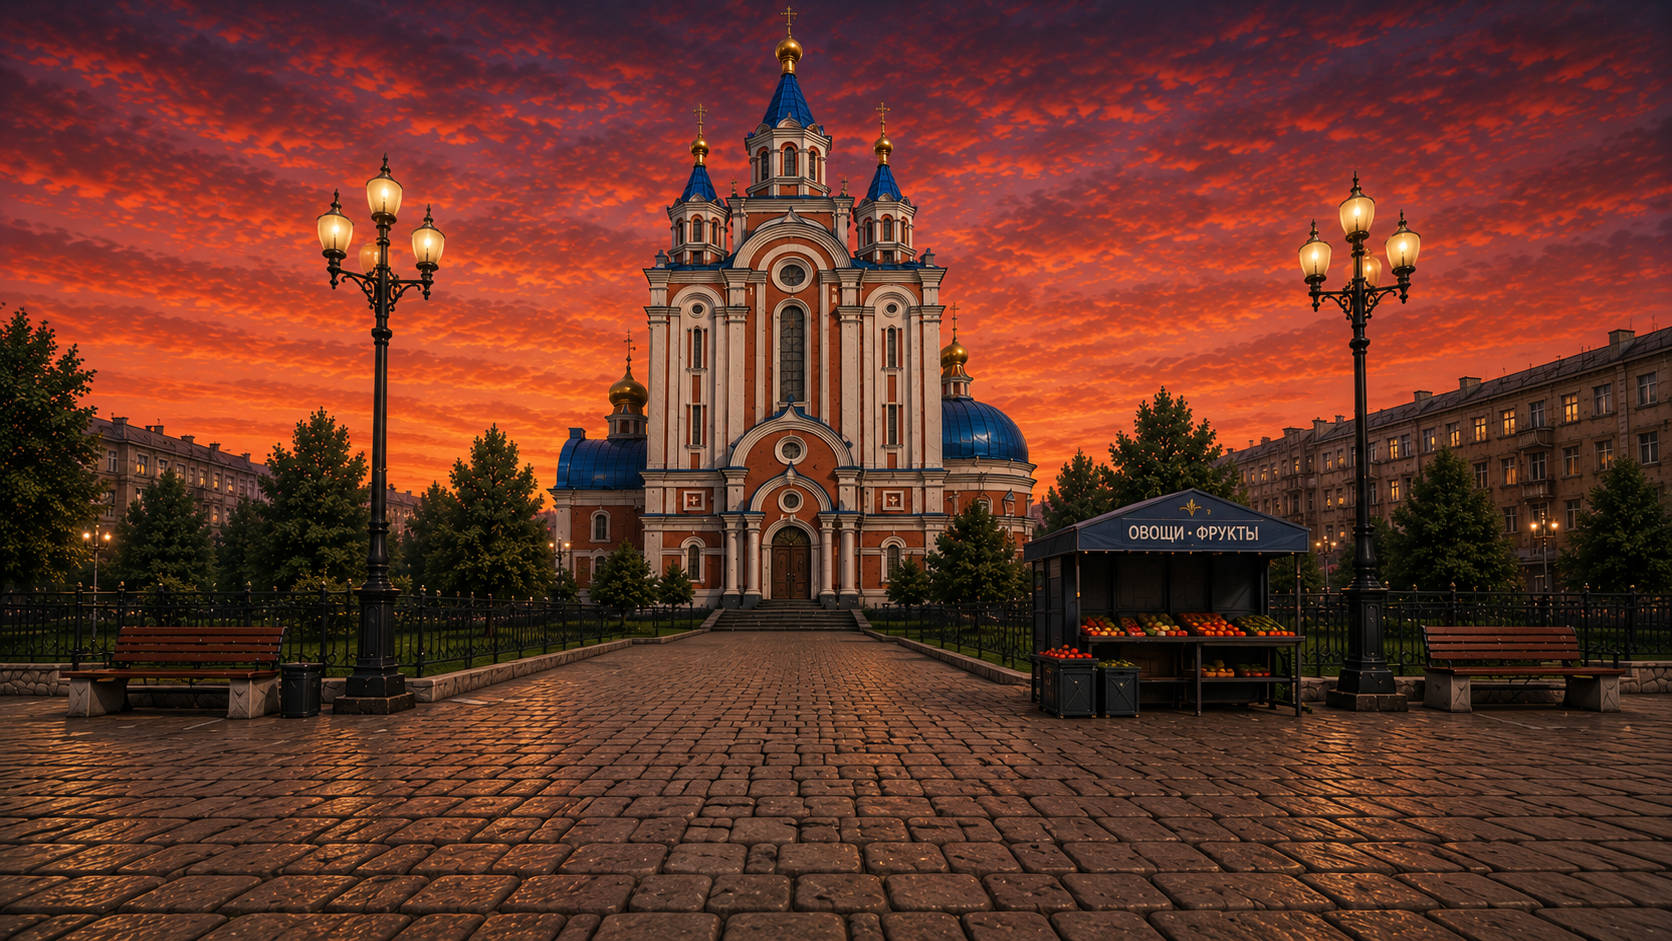
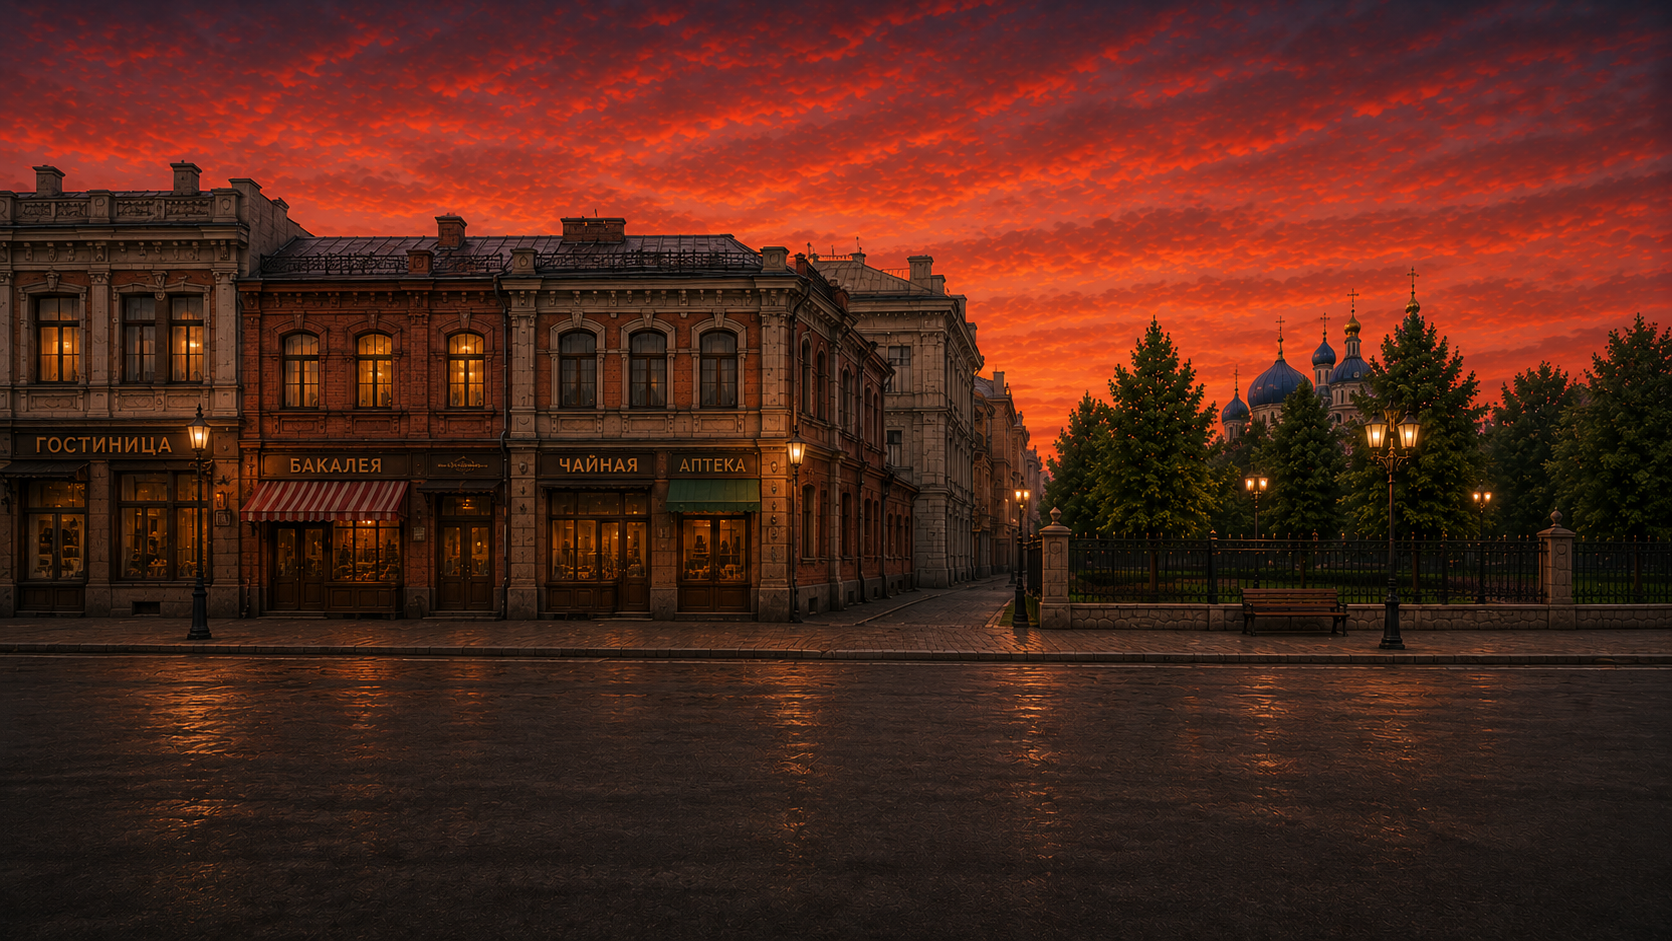
Update first location backgrounds

diff --git a/src/assets.js b/src/assets.js
@@ -1,7 +1,7 @@
 window.Assets = {
   backgrounds:{
     main:'assets/backgrounds/Main.png',
-    level1:['assets/backgrounds/1/street01.png','assets/backgrounds/1/street02.png','assets/backgrounds/street12.png']
+    level1:['assets/backgrounds/1/street01.png','assets/backgrounds/1/street02.png','assets/backgrounds/1/street03.png']
   },
   audio:{
     music:{
